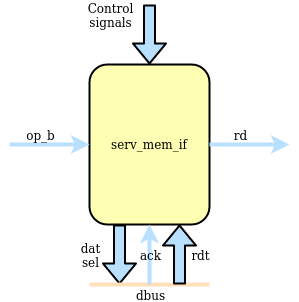
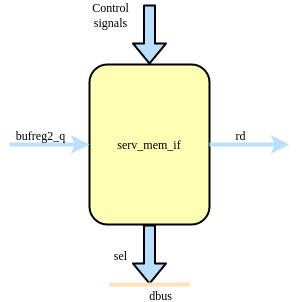
Move dbus_dat/rs2/shamt storage to bufreg2

diff --git a/doc/index.rst b/doc/index.rst
@@ -53,6 +53,15 @@ For two-stage operations, serv_bufreg holds data between stages. This data can b
 
 .. image:: serv_bufreg_int.png
 
+serv_bufreg2
+^^^^^^^^^^^^
+
+.. image:: serv_bufreg2.png
+
+serv_bugreg2 is a 32-bit buffer register with some special features. It is used for shift operations to store the shift amount. It's used in load and store operations to store the data to be written or be read from the data bus, and it holds rs2 for the SERV extension interface. For shift and store operations, the register is shifted in from MSB when dat_en is asserted, while for loads and uses of the extension interface, the whole data word is written to when the i_load signal is asserted. Once the data is in the buffer, it is used differently depending on the operation. For stores and the extension interface the whole buffer is directly connected to the data bus as a 32-bit register. For load operations, the data is fed out serially once it has been fetched from the data bus. To better support load operations of varying sizes the buffer contains logic for reading out data serially from any of the byte LSBs of the 32-bit word. Finally, in shift mode, the 6 LSB of the register is used as a downcounter that is initialized during the init stage and then counts the remaining number of steps to shift the data and signals using sh_done and sh_done_r when finished.
+
+.. image:: serv_bufreg2_int.png
+
 serv_csr
 ^^^^^^^^
 
@@ -101,15 +110,13 @@ serv_mem_if
 
 .. image:: serv_mem_if.png
 
-serv_mem_if prepares the data to be sent out on the dbus during store operations and serializes the incoming data during loads
+serv_mem_if contains the control logic for preparing the data to be sent out on the dbus during store operations and sign-extends the incoming data from bufreg2 during loads
 
-The memory interface is centered around four byte-wide shift registers connected in series. During store operations, the `dat_en` signal is asserted long enough to shift in the data from rs2 to the right place in the shift registers and the parallel output of the shift registers is then presented to the data bus as a 32-bit word together with a byte mask. The `Data bus byte mask`_ table summarizes the logic for when the individual byte select signals are asserted depending on the two LSB of the data address together with the size (byte, halfword, word) of the write operation.
+The memory interface is centered around four serially connected byte-wide shift registers located in serv_bufreg2. During store operations, the `o_byte_valid` signal is asserted long enough to shift in the data from rs2 to the right place in the shift registers. The `Data bus byte mask`_ table summarizes the logic for when the individual byte select signals are asserted depending on the two LSB of the data address together with the size (byte, halfword, word) of the write operation.
 
-During load operations, the data from the bus is latched into the shift registers. `dat_en` is again asserted to shift out data from the registers. `i_lsb` decides from which byte stage of the shift register to tap the data, depending on the alignment of the received data. The `dat_valid` signal makes sure to only present valid data to `o_rd` and otherwise fill in with zeros or sign extension.
+During load operations, the data from the bus is read from serv_bufreg2. `dat_en` is again asserted to shift out data from the registers. `i_lsb` decides from which byte stage of the shift register to tap the data, depending on the alignment of the received data. The `dat_valid` signal makes sure to only present valid data to `o_rd` and otherwise fill in with zeros or sign extension.
 
 When SERV is built with `WITH_CSR`, there is also logic to detect misaligned accesses which asserts the o_misalign flag to the core.
-
-The shift register used for stores and loads are also used to keep track of the number of steps to shift for left/right shift operations. In this mode, the six LSB of the register is loaded with the shift amount during the init stage and the used as a down counter which raises o_sh_done and o_sh_done_r when the number of shift steps have been completed.
 
 .. image:: serv_mem_if_int.png
 
